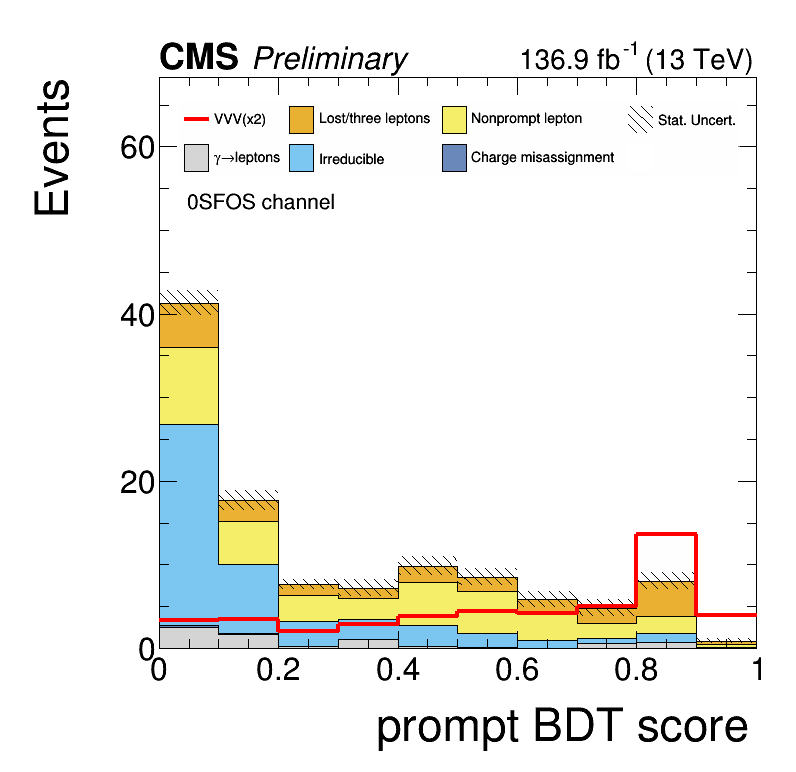
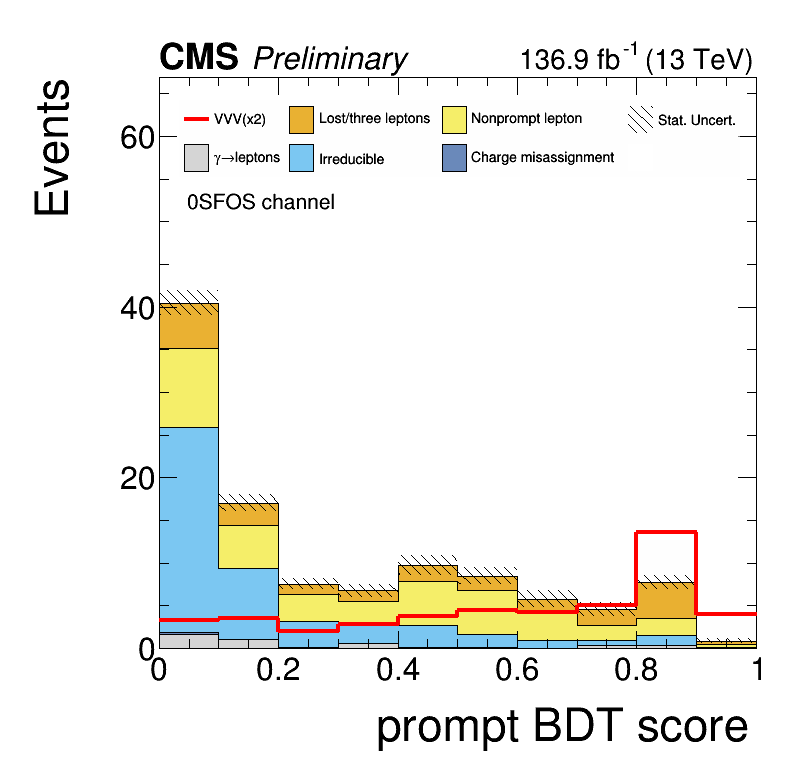
gamma scaling

diff --git a/style.py b/style.py
@@ -675,8 +675,33 @@ def getMultipleSRHisto(fname,srs,selname,dist):
 	hists = []
 	for sr in srs: 
 		histname = "{}__{}".format(sr,dist)
-		hist = froot.Get(histname)	
+
+		if "photon"  in fname : 
+
+			hist_years = []
+			for year in ["2016","2017","2018"]:
+				froot_year = ROOT.TFile.Open("hists/Loose{}_v5.3.3/2020_03_09_1500/photon.root".format(year))
+				
+				hist_year = froot_year.Get(histname)	
+				hist_year.SetDirectory(0)
+
+				if year == "2016" : hist_year.Scale(0.991)
+				if year == "2017" : hist_year.Scale(0.508)
+				if year == "2018" : hist_year.Scale(0.551)
+
+				hist_years.append(hist_year)	
+	
+			hist = hist_years[0].Clone()
+			hist.Add(hist_years[1])
+			hist.Add(hist_years[2])
+			hist.SetDirectory(0)
+			
+		else: 
+			hist = froot.Get(histname)	
+			
 		hists.append(hist)
+		#print(fname,histname)
+		#print(hist)
 
 	hist_merged = hists[0].Clone()
 	hist_merged.Reset()
@@ -711,6 +736,24 @@ def getHisto(fname,histname):
 
 	froot = ROOT.TFile.Open(fname)
 	hist = froot.Get(histname)	
+	if "photon"  in fname : 
+		print("Doing photon")
+		froot2016 = ROOT.TFile.Open("Loose2016_v5.3.3/2020_03_09_1500/photon.root")	
+		froot2017 = ROOT.TFile.Open("Loose2016_v5.3.3/2020_03_09_1500/photon.root")	
+		froot2018 = ROOT.TFile.Open("Loose2016_v5.3.3/2020_03_09_1500/photon.root")	
+
+		hist2016 = froot2016.Get(histname)	
+		hist2017 = froot2017.Get(histname)	
+		hist2018 = froot2018.Get(histname)
+
+		hist2016.Scale(0.991)
+		hist2017.Scale(0.508)
+		hist2018.Scale(0.551)	
+
+		hist = hist2016.Clone()
+		hist.Add(hist2017)
+		hist.Add(hist2018)
+
 	hist.SetDirectory(0)
 
 	if "data"    in fname : hist.SetName( hist.GetName() + "_data"   )
@@ -724,6 +767,7 @@ def getHisto(fname,histname):
 	if "wzz"     in fname : hist.SetName( hist.GetName() + "_WZZ"    ) 
 	if "zzz"     in fname : hist.SetName( hist.GetName() + "_ZZZ"    ) 
 	if "vvv"     in fname : hist.SetName( hist.GetName() + "_VVV"    )
+
 	return hist
 
 def getHistos(fnames,histname):

diff --git a/plot.py b/plot.py
@@ -77,6 +77,8 @@ def makePlotMultipleSRs(srs, selname, name , dirname, extraoptions={}):
 	if "SR2SFOSPreSel" in selname : txt = "2SFOS preselection"
 	if "SR1SFOSPreSel" in selname : txt = "1SFOS preselection"
 	if "SR0SFOSPreSel" in selname : txt = "0SFOS preselection"
+
+	if "SR1SFOSDYVeto" in selname : txt = "1SFOS preselection + Z Veto"
 	
 	if "SR2SFOSPreSelBDT" in selname : txt = "2SFOS BDT preselection"
 	if "SR1SFOSPreSelBDT" in selname : txt = "1SFOS BDT preselection"
@@ -587,6 +589,23 @@ options = {
 }
 makePlotMultipleSRs(srs,sel,"MT3rd", dirname, options)
 
+srs = ["SR1SFOSDYVeto"]
+sel = "SR1SFOSDYVeto"
+scale = 20
+
+options = {
+ "signal_scale" : scale,
+ "yaxis_label": "Events",
+ "xaxis_label":"M_{T}^{3rd}",
+ "xaxis_range":[0,250],
+ "nbins": 35,
+ #"yaxis_log": True,
+}
+makePlotMultipleSRs(srs,sel,"MT3rd", dirname, options)
+
+
+
+
 srs = ["SR2SFOSPreSel"]
 sel = "SR2SFOSPreSel"
 scale = 100
@@ -630,12 +649,12 @@ makePlotMultipleSRs(srs,sel,"Pt3l", dirname, options)
 #makeSSinclusive(dirname)
 #makeSS2Jplots(dirname)
 #makeSS1Jplots(dirname)
-#make0SFOSplots(dirname)
+make0SFOSplots(dirname)
 
 #makeBDTPlots()
 
 #makeWZCRSSplots(dirname)
-makeFakeCRplots(dirname)
+#makeFakeCRplots(dirname)
 
 # BDT options
 #  KEY: TH1F	SRSSmm__BDT_lostlep_prompt_SFOS;1	
